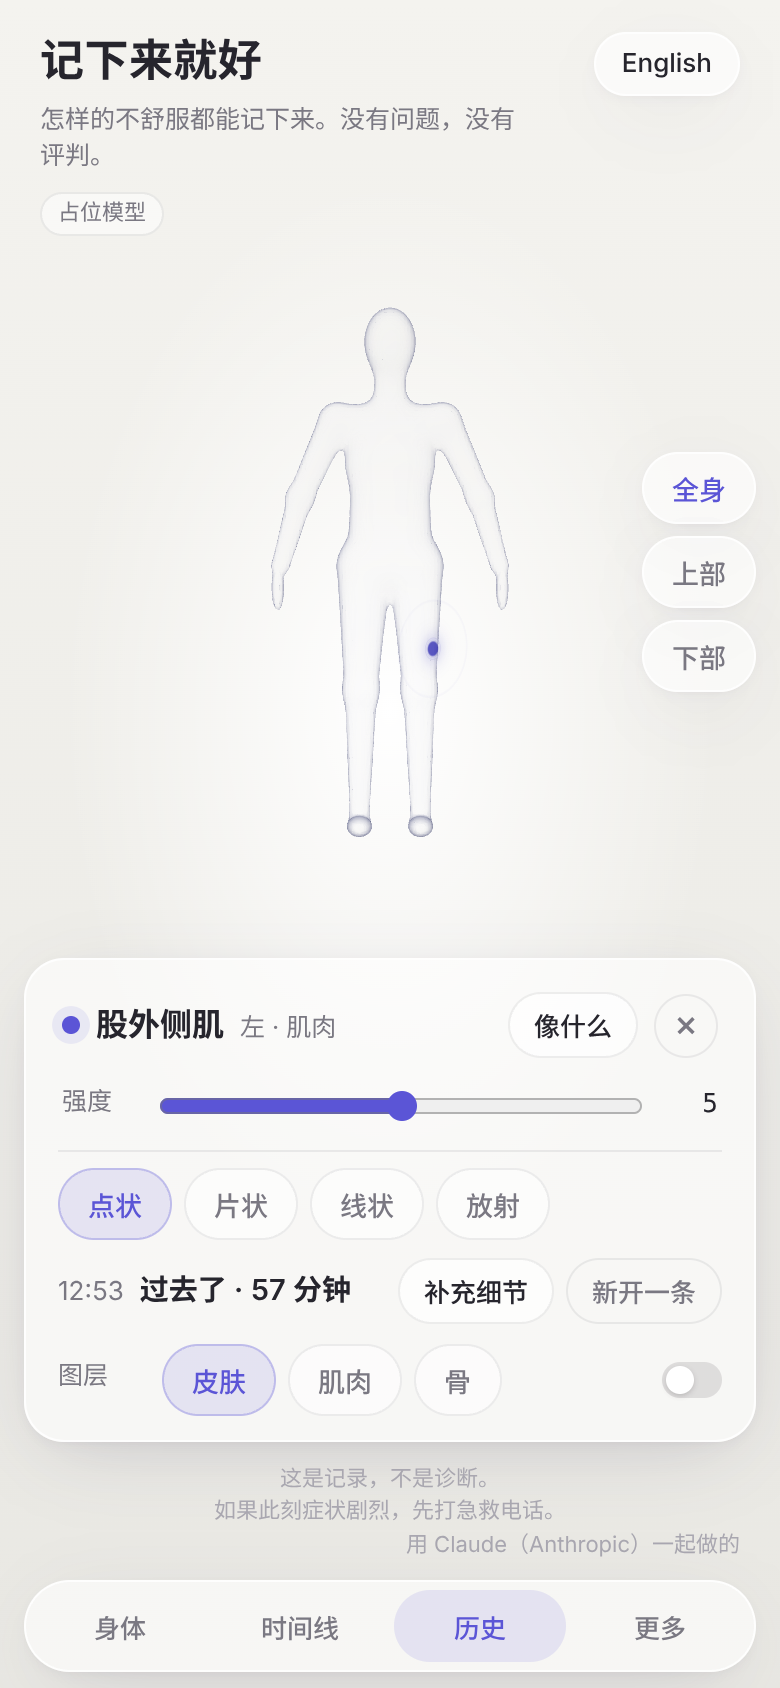
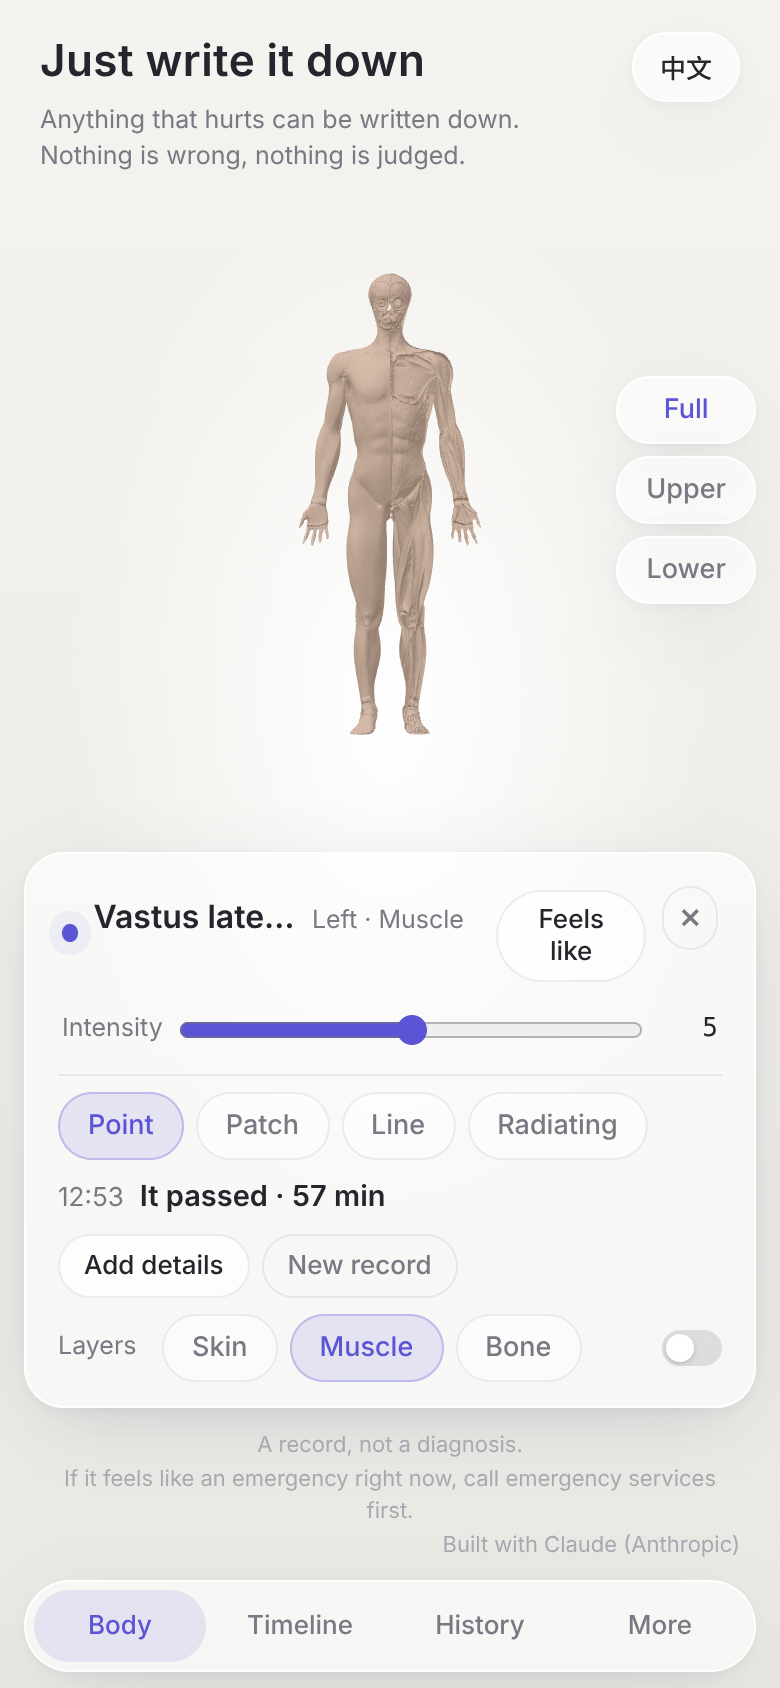
README first screen, live demo on GitHub Pages, new screenshots and gif
- README: one-line summary, demo link, gif and three run commands first; why, features, how it works,
  the body model, tests, roadmap, contributing. Existing text kept. Removed the outdated placeholder-model
  status and the offline claim (there is no service worker yet; it is on the roadmap)
- docs/demo.gif (turn, tap the shoulder, switch to muscles) and docs/01-03 retaken on the Z-Anatomy model
  in English; shots.mjs waits for the camera and transitions to stop instead of fixed sleeps
- GitHub Pages workflow (core tests, build, unit tests, deploy app/dist); Open Graph tags and og.png
- CHANGES.md: all 418 parts now have an exact Chinese label

diff --git a/app/index.html b/app/index.html
@@ -7,6 +7,13 @@
     <meta name="apple-mobile-web-app-capable" content="yes" />
     <meta name="apple-mobile-web-app-status-bar-style" content="default" />
     <title>BodyMap</title>
+    <meta name="description" content="Tap where it hurts on a 3D body and keep a record a clinician can read. Records stay on your device: no account, no server." />
+    <meta property="og:type" content="website" />
+    <meta property="og:title" content="BodyMap" />
+    <meta property="og:description" content="Tap where it hurts on a 3D body and keep a record a clinician can read. Records stay on your device." />
+    <meta property="og:url" content="https://lyrapower.github.io/bodymap/" />
+    <meta property="og:image" content="https://lyrapower.github.io/bodymap/og.png" />
+    <meta name="twitter:card" content="summary_large_image" />
     <link rel="icon" href="data:," />
   </head>
   <body>

diff --git a/README.md b/README.md
@@ -1,15 +1,29 @@
-# BodyMap
+# BodyMap — tap where it hurts on a 3D body, keep a record a doctor can read
+
+**[▶ Open the live demo](https://lyrapower.github.io/bodymap/)** (best on a phone) · records never leave your device. If it helps you or someone you care for, a ⭐ helps other people find it.
+
+<p align="center"><img src="docs/demo.gif" width="300" alt="Turning the 3D body, tapping the left shoulder to mark it, then switching to the muscle layer" /></p>
+
+```
+git clone https://github.com/Lyrapower/bodymap && cd bodymap/app
+npm install
+npm run dev -- --host      # open the printed Network address on your phone
+```
 
 **Anything that hurts can be written down. Nothing is wrong, nothing is judged.**
 **怎样的不舒服都能记下来。没有问题，没有评判。**
 
-A 3D body record. Tap where it hurts, say what it feels like, note how long. Over weeks the records become something a doctor can read in one page, and something you can look back on yourself.
+## Why
 
-*A record, not a diagnosis.* 这是记录，不是诊断。
+Pain is hard to put into words, and harder to remember accurately a week later in a doctor's office. BodyMap lets you tap the spot on a 3D body, say what it feels like and how long it lasted. Over weeks the records become something a clinician can read in one page, and something you can look back on yourself.
+
+*A record, not a diagnosis.* 这是记录，不是诊断。 BodyMap does not diagnose and is not a medical device.
+
+**Who it is for:** people who find pain hard to put into words. Children and older people. People living with something long-term. People who see doctors rarely and don't know which door. Anyone who has been told "we can't find anything" and knows it is still real.
 
 ## What it does
 
-- **Mark on a 3D body**, by part and depth (skin, muscle, bone, deep). Point, patch, line or radiating.
+- **Mark on a 3D body**, by part and depth (skin, muscle, bone, deep). Point, patch, line or radiating. 418 named parts, left and right.
 - **Record what it feels like** with plain words (McGill vocabulary) and a 0–10 intensity. Start time; end time when it passes.
 - **One tap when it happens.** Details can wait.
 - **Body & mind on one timeline.** Stress, mood, sleep, optional on every record.
@@ -24,9 +38,23 @@ A 3D body record. Tap where it hurts, say what it feels like, note how long. Ove
   <img src="docs/03_doctor_export.png" width="30%" alt="Export for a clinician" />
 </p>
 
-## Who it is for
+## How it works
 
-People who find pain hard to put into words. Children and older people. People living with something long-term. People who see doctors rarely and don't know which door. Anyone who has been told "we can't find anything" and knows it is still real.
+```mermaid
+flowchart LR
+  tap[Tap on the body] --> ray[Raycast into the 3D model<br/>skin · muscle · bone layers]
+  ray --> loc["Body location<br/>part · side · position inside the part · depth · view"]
+  loc --> rec[(Record, plain JSON<br/>append-only, in IndexedDB)]
+  rec --> tl[Timeline]
+  rec --> ex[Clinician export<br/>SOCRATES order]
+  rec --> bk[Backup file]
+```
+
+A location is stored relative to the body part (its left/right side and a position inside the part's box), not as screen or world coordinates, so a mark lands on the same spot when you turn the body, change layers or open the record later. A tap on the skin is named by the part underneath it; a tap on a thin wrapping (fascia, bursa, tendon sheath) is named by the muscle or bone right behind it.
+
+## The body model
+
+The 3D body is derived from [Z-Anatomy](https://github.com/Z-Anatomy) (itself from BodyParts3D), CC BY-SA 4.0. `assets/model/export_zanatomy.py` exports it with Blender into one 12.4 MiB `body.glb`: 573 muscle parts (with their fascia and tendon sheaths), 222 bone parts and a skin shell, about 506k triangles. [`assets/model/CHANGES.md`](assets/model/CHANGES.md) records every change made to the model.
 
 ## Run
 
@@ -36,23 +64,31 @@ npm install
 npm run dev            # open on a phone: npm run dev -- --host
 ```
 
-Open it in Safari on a phone and add it to the home screen: it works offline after the first load, and the records never leave the device.
+Open it in Safari on a phone and add it to the home screen. The records stay in the browser on that device and never leave it.
 
-## Check
+## Tests
 
 ```
 node core/tests/run.mjs                      # data rules, exports, routing, no words of judgement in the strings
 cd app && npm run build && npm test          # types, unit tests
 npm run e2e && npm run e2e:d1                # real browser on a phone viewport: taps, forms, storage, exports, 1000-record and bad-import cases
+npm run e2e:webkit                           # the same in WebKit (Safari's engine), with touch input; needs WebKitGTK + WebKitWebDriver
 ```
-
-## Status
-
-The app ships with a placeholder low-poly body (40 named parts, three layers). The anatomical model (Z-Anatomy, CC BY-SA 4.0) is exported by `assets/model/export_zanatomy.py`; see `assets/model/CHANGES.md` for where that stands.
 
 ## Data format
 
 Records are plain JSON. See [`core/schema/README.md`](core/schema/README.md). The format is versioned and append-only: an edit writes a new record that `supersedes` the old one, and a backup file carries every version. Deleting a record (the only non-append action) asks first and removes all of its versions.
+
+## Roadmap
+
+- Faster on older phones: draw each layer as one mesh instead of one per part
+- An organ layer, so "deep" marks have something to land on
+- More languages for the body part names and the exports
+- Works offline after the first visit (a service worker; today it needs the network to load)
+
+## Contributing
+
+Issues and pull requests are welcome; issues labelled [`good first issue`](https://github.com/Lyrapower/bodymap/labels/good%20first%20issue) are small and self-contained. Please read [CONTRIBUTING.md](CONTRIBUTING.md) first: every commit is signed off (DCO), and two rules are not negotiable (it records, it never judges; records are points, never interpolated).
 
 ## License
 

diff --git a/assets/model/CHANGES.md b/assets/model/CHANGES.md
@@ -26,8 +26,8 @@ Export done 2026-10-14 with `assets/model/export_zanatomy.py` (command in its do
 - Triangles: muscle 272 377 (573 nodes), bone 173 829 (222 nodes), skin 60 000 (1 node); total 506 206.
 - File size: body.glb 12 963 400 bytes (12.4 MiB); body.parts.json 143 793 bytes.
 - Mesh naming: node names are the Z-Anatomy names (or the joined name above); part_id = snake case, side stripped, a trailing
-  "muscle" / "bone" dropped. Mapping file: `body.parts.json` (written by the script). zh labels: 183 of 418 part_ids from labels.json
-  (exact or contained id); the rest show the English Z-Anatomy name in both languages.
+  "muscle" / "bone" dropped. Mapping file: `body.parts.json` (written by the script). zh labels: all 418 part_ids from an exact
+  labels.json entry (since D4); a part with no entry would show its English Z-Anatomy name in both languages.
 - Export: glTF 2.0 binary (.glb), no Draco (the app has no decoder), no materials, no UVs. Meshes are baked in world space (no node
   transforms), so `local` is relative to an axis-aligned box.
 - Units / origin: metres, feet at y = 0 (min y 0.002), height 1.711 m, facing +Z, patient's left = +X. Z-Anatomy is Z-up, facing -Y,
